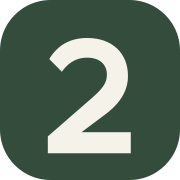
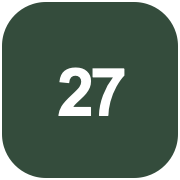
Add files via upload

diff --git a/src/styles.css b/src/styles.css
@@ -2,3 +2,126 @@
 @media(max-width:1050px){.sidebar{width:220px}.main-area{margin-left:220px}.topbar{padding:0 30px}.view-root{padding:34px 30px 65px}.grid.four{grid-template-columns:repeat(2,1fr)}}
 @media(max-width:760px){.sidebar{transform:translateX(-100%);transition:transform .22s;box-shadow:10px 0 32px rgba(30,45,32,.08)}.sidebar.open{transform:translateX(0)}.main-area{margin-left:0}.topbar{height:59px;padding:0 16px;gap:12px}.mobile-menu{display:block;border:0;background:transparent;color:#556456;font-size:19px;cursor:pointer}.crumb{margin-right:auto;font-size:10px}.save-status{display:none}.view-root{padding:28px 16px 55px}.page-head{align-items:flex-start;flex-direction:column;gap:15px;margin-bottom:20px}.page-head .btn{align-self:stretch;justify-content:center}.date-pill{align-self:flex-start}.grid.two,.grid.three{grid-template-columns:1fr}.grid.four{gap:10px}.card{padding:17px;border-radius:15px}.hero-card{min-height:190px;padding:23px}.hero-card .hero-progress{right:20px;bottom:22px}.hero-card h2{font-size:22px;max-width:250px}.hero-card p{max-width:270px}.hero-progress strong{font-size:22px}.favorite-grid{grid-template-columns:1fr}.calendar-day{min-height:48px;padding:5px;font-size:9px}.calendar-day .day-dot{bottom:5px;left:6px}.form-grid{grid-template-columns:1fr}.form-grid .wide{grid-column:auto}.toolbar{align-items:flex-start;flex-direction:column}.tabs{width:100%;overflow:auto;flex-wrap:nowrap}.tab{white-space:nowrap;padding:9px 10px}.habit-row{gap:9px}.habit-right .tag{display:none}.section{margin-top:16px}.metric{min-height:90px}.calendar-grid{gap:3px}.calendar-day{border-radius:8px}.day-detail .grid.two{grid-template-columns:1fr}}
 @media(min-width:761px){.mobile-menu{display:none}}
+
+/* Navegación y ajustes visuales */
+.brand-mark{overflow:hidden;flex:none;padding:0;background:#344c3c;border-radius:14px}
+.brand-mark img{display:block;width:100%;height:100%;object-fit:cover}
+.brand b{font-size:16px}
+.avatar{overflow:hidden;padding:0;border:0;background:transparent;width:38px;height:38px}
+.avatar img{display:block;width:100%;height:100%;border-radius:12px}
+.sidebar{height:100vh;height:100dvh;overflow:hidden}
+.main-nav{flex:1 1 auto;min-height:0;overflow-y:auto;overscroll-behavior:contain;scrollbar-width:thin;padding-right:2px}
+.sidebar-footer{flex:none}
+.sidebar-backdrop{display:none}
+.quote-card{background:#f1eee6;border:0;box-shadow:none;position:relative;padding:25px 23px}
+.quote-card .quote-type{display:block;font-size:9px;text-transform:uppercase;letter-spacing:1.3px;color:#8b7855;font-weight:700;padding-right:34px}
+.quote-card blockquote{font:600 18px/1.5 Manrope,'DM Sans',sans-serif;color:#514936;margin:15px 0 13px;max-width:520px}
+.quote-author{font-size:12px!important;font-weight:700!important;color:#344c3c!important;margin:0 0 5px!important}
+.quote-author span{font-size:10px;font-weight:500;color:#8d8575}
+.quote-card .quote-source,.quote-history-item a{font-size:10px;color:#6d775f}
+.quote-card .quote-history-trigger{display:block;margin-top:10px;padding:0}
+.quote-history-item{display:flex;align-items:flex-start;justify-content:space-between;gap:16px;border-bottom:1px solid var(--line);padding:16px 0}
+.quote-history-item:last-child{border-bottom:0}
+.quote-history-item blockquote{font:600 14px/1.5 Manrope,'DM Sans',sans-serif;margin:0 0 8px;color:var(--ink)}
+.quote-history-item strong,.quote-history-item small{display:block;font-size:11px;color:var(--muted);margin-top:4px}
+.appearance-card{margin-bottom:16px}
+.theme-options{display:flex;gap:8px;flex-wrap:wrap}
+.theme-option{border:1px solid var(--line);background:var(--paper);color:var(--muted);border-radius:10px;padding:10px 16px;font:600 12px 'DM Sans',sans-serif;cursor:pointer;transition:background .15s,border-color .15s,color .15s}
+.theme-option:hover{border-color:#96aa94;color:var(--ink)}
+.theme-option.active{background:var(--green);border-color:var(--green);color:white}
+.settings-grid{align-items:start}
+
+/* Tema oscuro */
+body[data-theme="dark"]{color-scheme:dark;--ink:#e7ece8;--muted:#a6b0a8;--line:#333d36;--paper:#202823;--green:#56775d;--sage:#2d3a30;--lime:#43563a;--sand:#363329;--shadow:0 12px 34px rgba(0,0,0,.2);background:#151a17;color:var(--ink)}
+body[data-theme="dark"] .app-shell,body[data-theme="dark"] .main-area{background:#151a17}
+body[data-theme="dark"] .sidebar{background:#1b221d;border-color:#2d372f}
+body[data-theme="dark"] .brand,body[data-theme="dark"] .brand b,body[data-theme="dark"] .page-head h1,body[data-theme="dark"] .section-head h2,body[data-theme="dark"] .card-title,body[data-theme="dark"] .metric strong,body[data-theme="dark"] .habit-name,body[data-theme="dark"] .list-main strong,body[data-theme="dark"] .backup-box h3{color:#e5ece6}
+body[data-theme="dark"] .brand small,body[data-theme="dark"] .sidebar-footer,body[data-theme="dark"] .nav-label,body[data-theme="dark"] .crumb,body[data-theme="dark"] .save-status,body[data-theme="dark"] .page-head .sub,body[data-theme="dark"] .card-sub,body[data-theme="dark"] .section-head p,body[data-theme="dark"] .helper-text,body[data-theme="dark"] .footer-note,body[data-theme="dark"] .metric-label,body[data-theme="dark"] .metric small,body[data-theme="dark"] .habit-meta,body[data-theme="dark"] .list-main small,body[data-theme="dark"] .form-hint,body[data-theme="dark"] .empty{color:#a4afa6}
+body[data-theme="dark"] .topbar{background:rgba(25,32,27,.94);border-color:#2d372f}
+body[data-theme="dark"] .crumb span:last-child{color:#d9e1da}
+body[data-theme="dark"] .nav-item{color:#bbc5bd}
+body[data-theme="dark"] .nav-item span{color:#9eaaa0}
+body[data-theme="dark"] .nav-item:hover{background:#28332b;color:#f2f6f3}
+body[data-theme="dark"] .nav-item.active{background:#2e3e32;color:#e6efe7}
+body[data-theme="dark"] .nav-item.active span{color:#b5d3af}
+body[data-theme="dark"] .card,body[data-theme="dark"] .date-pill,body[data-theme="dark"] .btn.line,body[data-theme="dark"] .month-nav button,body[data-theme="dark"] .mood-option,body[data-theme="dark"] .theme-option:not(.active){background:#202823;border-color:#333d36;color:#d4ddd5}
+body[data-theme="dark"] .btn.soft,body[data-theme="dark"] .tab,body[data-theme="dark"] .pill,body[data-theme="dark"] .tag,body[data-theme="dark"] .duration-badge,body[data-theme="dark"] .icon-button{background:#2a352d;border-color:#39463c;color:#c4d1c6}
+body[data-theme="dark"] .tab.active,body[data-theme="dark"] .pill.active{background:#435a47;color:#f1f6f1}
+body[data-theme="dark"] .field,body[data-theme="dark"] input:not([type="checkbox"]):not([type="radio"]),body[data-theme="dark"] select,body[data-theme="dark"] textarea{background:#171e19;border-color:#3a463d;color:#e5ece6}
+body[data-theme="dark"] .field::placeholder,body[data-theme="dark"] textarea::placeholder{color:#839087}
+body[data-theme="dark"] .habit-row,body[data-theme="dark"] .list-row,body[data-theme="dark"] .data-table th,body[data-theme="dark"] .data-table td,body[data-theme="dark"] .divider{border-color:#333d36}
+body[data-theme="dark"] .data-table td{color:#c4cec6}
+body[data-theme="dark"] .calendar-day{background:#202823;border-color:#333d36;color:#d0d9d1}
+body[data-theme="dark"] .calendar-day.muted{background:#191f1b;color:#68736b}
+body[data-theme="dark"] .calendar-day.selected,body[data-theme="dark"] .mood-option.active{background:#344638;color:#edf5ee}
+body[data-theme="dark"] .backup-box{background:#1b231d;border-color:#3a463d}
+body[data-theme="dark"] .callout{background:#302e25;color:#d0c5a4}
+body[data-theme="dark"] .quote-card{background:#282a24}
+body[data-theme="dark"] .hero-card{background:linear-gradient(112deg,#263b2d,#344b37 75%,#46543a)}
+body[data-theme="dark"] .quote-card blockquote{color:#ece6d8}
+body[data-theme="dark"] .quote-card .quote-type{color:#cfbb8b}
+body[data-theme="dark"] .quote-author{color:#cbd9cb!important}
+body[data-theme="dark"] .quote-author span{color:#a9ab9d}
+body[data-theme="dark"] .quote-card a,body[data-theme="dark"] .quote-history-item a{color:#c7d7ae}
+body[data-theme="dark"] .link-button{color:#b7c5ba}
+body[data-theme="dark"] .form-field label{color:#bdc8bf}
+body[data-theme="dark"] .check:not(:checked){background:#202823;border-color:#526057}
+body[data-theme="dark"] .app-dialog{background:#202823;color:#e5ece6}
+body[data-theme="dark"] .app-dialog h2{color:#e5ece6}
+body[data-theme="dark"] .dialog-close{background:#303a32;color:#c7d0c8}
+body[data-theme="dark"] .sidebar-backdrop{background:rgba(0,0,0,.58)}
+
+@media(max-width:760px){
+  body.menu-open{overflow:hidden}
+  .sidebar{width:min(88vw,320px);padding:calc(18px + env(safe-area-inset-top)) 16px calc(16px + env(safe-area-inset-bottom));z-index:12;transform:translateX(-105%);transition:transform .22s ease;overscroll-behavior:contain}
+  .sidebar.open{transform:translateX(0)}
+  .sidebar-backdrop{display:block;position:fixed;inset:0;border:0;padding:0;background:rgba(14,22,16,.42);z-index:11;opacity:0;pointer-events:none;transition:opacity .2s}
+  body.menu-open .sidebar-backdrop{opacity:1;pointer-events:auto}
+  .main-nav{padding:4px 2px 14px;gap:3px;scrollbar-width:thin}
+  .nav-item{min-height:46px;font-size:14px;padding:12px 13px}
+  .nav-label{margin:16px 12px 6px}
+  .sidebar-footer{padding:14px 5px calc(4px + env(safe-area-inset-bottom));font-size:10px}
+  .topbar{height:62px;padding:0 14px;gap:10px;z-index:8}
+  .mobile-menu{width:40px;height:40px;border-radius:12px;background:var(--paper);border:1px solid var(--line);font-size:20px;flex:none}
+  .crumb{display:flex;align-items:center;min-width:0;font-size:11px}
+  .crumb span:first-child{overflow:hidden;text-overflow:ellipsis;white-space:nowrap}
+  .avatar{width:36px;height:36px}
+  .view-root{padding:24px 14px calc(38px + env(safe-area-inset-bottom))}
+  .page-head{gap:12px;margin-bottom:17px}
+  .page-head h1{font-size:27px;letter-spacing:-.7px}
+  .page-head .sub{font-size:13px;line-height:1.5;margin-top:6px}
+  .page-head .btn{align-self:stretch}
+  .hero-card{min-height:178px;padding:21px}
+  .hero-card h2{font-size:21px;max-width:230px}
+  .hero-card p{font-size:12px;max-width:240px;padding-right:32px}
+  .hero-card .hero-progress{right:17px;bottom:17px}
+  .hero-progress strong{font-size:20px}
+  .quote-card{padding:21px 19px}
+  .quote-card blockquote{font-size:16px;margin-top:14px}
+  .quote-author span{display:block;margin-top:3px}
+  .grid.two,.grid.three{grid-template-columns:minmax(0,1fr)}
+  .grid.four{grid-template-columns:repeat(2,minmax(0,1fr));gap:9px}
+  .metric{min-width:0;overflow-wrap:anywhere}
+  .metric strong{font-size:22px}
+  .metric .metric-label{line-height:1.4}
+  .card{padding:16px}
+  .section-head{gap:10px}
+  .section-head h2{font-size:14px}
+  .toolbar{width:100%}
+  .tabs{overflow-x:auto;flex-wrap:nowrap;width:100%;scrollbar-width:none}
+  .tabs::-webkit-scrollbar{display:none}
+  .tab{flex:none;white-space:nowrap}
+  .actions-row{flex-wrap:wrap}
+  .actions-row .btn{flex:1 1 auto;justify-content:center}
+  .form-grid{grid-template-columns:minmax(0,1fr)}
+  .form-grid .wide{grid-column:auto}
+  .table-wrap{margin:0 -4px;max-width:calc(100% + 8px)}
+  .data-table{min-width:520px}
+  .calendar-grid{gap:3px}
+  .calendar-day{min-height:45px;padding:4px;font-size:9px}
+  .app-dialog{width:calc(100vw - 20px);max-height:calc(100dvh - 24px);border-radius:16px}
+  .dialog-frame{padding:22px 17px}
+  .dialog-actions{position:sticky;bottom:0;padding-top:10px;background:var(--paper)}
+  .theme-options{display:grid;grid-template-columns:repeat(3,minmax(0,1fr))}
+  .theme-option{padding:11px 7px}
+}

diff --git a/index.html b/index.html
@@ -5,17 +5,17 @@
     <meta http-equiv="Content-Security-Policy" content="default-src 'self'; script-src 'self'; style-src 'self' 'unsafe-inline'; img-src 'self' data: blob:; font-src 'self'; connect-src 'self'; object-src 'none'; base-uri 'self'; form-action 'self'" />
     <meta name="viewport" content="width=device-width, initial-scale=1, viewport-fit=cover" />
     <meta name="theme-color" content="#f3f5f2" />
-    <meta name="description" content="27: hábitos, formación, estudios y experiencias, a tu ritmo." />
+    <meta name="description" content="27: hábitos, formación, estudios y experiencias personales." />
     <link rel="manifest" href="./manifest.webmanifest" />
     <link rel="icon" href="./icons/icon.svg" type="image/svg+xml" />
     <link rel="apple-touch-icon" href="./icons/apple-touch-icon.png" />
     <link rel="stylesheet" href="./src/styles.css" />
-    <title>27 — A tu ritmo</title>
+    <title>27</title>
   </head>
   <body>
     <div class="app-shell">
       <aside class="sidebar" id="sidebar">
-        <a class="brand" href="#hoy" aria-label="27, ir a hoy"><span class="brand-mark">27</span><span><b>mi espacio</b><small>crece a tu ritmo</small></span></a>
+        <a class="brand" href="#hoy" aria-label="27, ir a hoy"><span class="brand-mark" aria-hidden="true"><img src="./icons/icon.svg" alt="" /></span><span><b>27</b><small>Hábitos · aprendizaje</small></span></a>
         <nav class="main-nav" aria-label="Navegación principal">
           <p class="nav-label">MI DÍA</p>
           <button class="nav-item active" data-view="today"><span>◷</span> Hoy</button>
@@ -30,14 +30,14 @@
           <button class="nav-item" data-view="statistics"><span>⌁</span> Estadísticas</button>
           <button class="nav-item" data-view="settings"><span>⚙</span> Configuración</button>
         </nav>
-        <div class="sidebar-note"><span class="note-spark">✦</span><p>No hace falta hacerlo todo.<br /><b>Solo sigue siendo tuyo.</b></p></div>
-        <div class="sidebar-footer"><span class="privacy-dot"></span> Tus datos se quedan en este dispositivo</div>
+        <div class="sidebar-footer"><span class="privacy-dot"></span> Datos guardados en este dispositivo</div>
       </aside>
+      <button class="sidebar-backdrop" id="sidebar-backdrop" type="button" aria-label="Cerrar menú"></button>
       <main class="main-area">
         <header class="topbar">
-          <button class="mobile-menu" id="menu-toggle" aria-label="Abrir menú">☰</button>
+          <button class="mobile-menu" id="menu-toggle" aria-label="Abrir menú" aria-expanded="false" aria-controls="sidebar">☰</button>
           <div class="crumb"><span id="today-date"></span><span class="crumb-dot">·</span><span id="page-crumb">Hoy</span></div>
-          <div class="top-actions"><span class="save-status" id="save-status">Guardado en este dispositivo</span><button class="avatar" data-view="settings" title="Configuración">27</button></div>
+          <div class="top-actions"><span class="save-status" id="save-status">Guardado en este dispositivo</span><button class="avatar" data-view="settings" title="Configuración" aria-label="Configuración"><img src="./icons/icon.svg" alt="" /></button></div>
         </header>
         <div class="view-root" id="view-root" aria-live="polite"></div>
       </main>

diff --git a/sw.js b/sw.js
@@ -1,4 +1,4 @@
-const CACHE = '27-shell-v1';
+const CACHE = '27-shell-v2';
 const FILES = ['./', './index.html', './manifest.webmanifest', './src/app.js', './src/styles.css', './icons/icon.svg', './icons/icon-192.png', './icons/icon-512.png', './icons/apple-touch-icon.png'];
 self.addEventListener('install', event => event.waitUntil(caches.open(CACHE).then(cache => cache.addAll(FILES))));
 self.addEventListener('activate', event => event.waitUntil(caches.keys().then(keys => Promise.all(keys.filter(key => key !== CACHE).map(key => caches.delete(key))))));

diff --git a/README.md b/README.md
@@ -1,10 +1,10 @@
-# 27 — A tu ritmo
+# 27
 
 Aplicación personal para registrar hábitos, formación elegida por ti, notas académicas y experiencias puntuales. Los cuatro ámbitos mantienen historiales y estadísticas separados.
 
 ## Abrir la app
 
-La versión web está disponible en [27 — A tu ritmo](https://valprimos.github.io/27/index.html). También puedes instalarla desde el navegador del móvil como una app web progresiva (PWA).
+La versión web está disponible en [Abrir 27](https://valprimos.github.io/27/index.html). También puedes instalarla desde el navegador del móvil como una app web progresiva (PWA).
 
 ## Ejecutar en Mac
 
@@ -32,8 +32,8 @@ El sitio se sirve por HTTPS. En iPhone, ábrelo en Safari y usa **Compartir → 
 - Registro independiente de sesiones en Matemáticas personal, Inglés personal, Python y otras áreas.
 - Asignaturas y notas de exámenes y evaluaciones, medias normalizadas sobre 10 y evolución por asignatura.
 - Extras editables que no afectan a hábitos, rachas ni porcentaje diario.
-- Calendario, ánimo, reflexiones con guardado automático, objetivos, curiosidades con fuentes, estadísticas basadas en registros y copias JSON.
-- Diseño adaptable a Mac y móvil, manifest PWA, protección de contenido y caché local de la interfaz.
+- Calendario, ánimo, reflexiones con guardado automático, objetivos, citas con autor y obra, estadísticas basadas en registros y copias JSON.
+- Diseño adaptable a Mac y móvil, modos claro, oscuro y sistema, manifest PWA y caché local de la interfaz.
 
 ## Especificación
 

diff --git a/docs/ARQUITECTURA.md b/docs/ARQUITECTURA.md
@@ -12,4 +12,4 @@ Apple ofrece CloudKit JS para sitios web. Requiere un contenedor CloudKit existe
 
 ## Publicación
 
-La PWA puede instalarse desde un origen HTTPS. Este repositorio es privado y la publicación de una web no está habilitada. La privacidad del código no vuelve privada una web publicada. Antes de publicar habrá que decidir el alojamiento y actualizar la base URL de la PWA si se sirve desde una subruta.
+La app se publica en GitHub Pages desde la raíz de `main`, en `https://valprimos.github.io/27/`, y se sirve mediante HTTPS. El repositorio y sus documentos son públicos. Los registros de uso siguen guardándose localmente en cada navegador y no se publican con el código.
